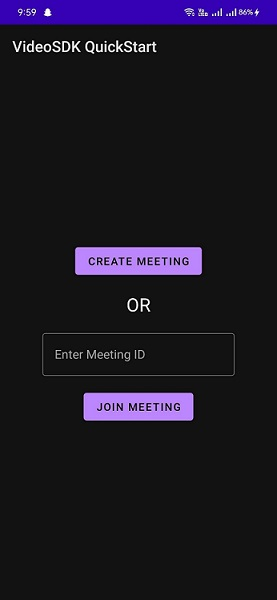
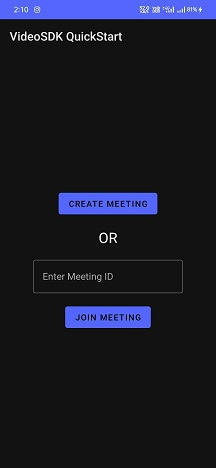
screenshot and style update

diff --git a/sidebarIos.js b/sidebarIos.js
@@ -6,6 +6,7 @@ module.exports = {
       items: [
         "guide/video-and-audio-calling-api-sdk/getting-started",
         "guide/video-and-audio-calling-api-sdk/signup-and-create-api",
+        "guide/video-and-audio-calling-api-sdk/quick-start",
         "guide/video-and-audio-calling-api-sdk/ios-sdk",
         "guide/video-and-audio-calling-api-sdk/server-setup",
       ],

diff --git a/docusaurus.config.js b/docusaurus.config.js
@@ -29,7 +29,8 @@ module.exports = {
       disableSwitch: false,
     },
     prism: {
-      additionalLanguages: ["powershell"],
+      theme: require("prism-react-renderer/themes/dracula"),
+      additionalLanguages: ['java', 'powershell'],
     },
     hideableSidebar: true,
     navbar: {

diff --git a/ios_docs/guide/video-and-audio-calling-api-sdk/quick-start.md b/ios_docs/guide/video-and-audio-calling-api-sdk/quick-start.md
@@ -1,0 +1,112 @@
+---
+title: Quick Start with iOS
+hide_title: false
+hide_table_of_contents: false
+description: Video SDK enables the opportunity to integrate native IOS, Android & Web SDKs to add live video & audio conferencing to your applications.
+sidebar_label: Quick Start with iOS
+pagination_label: Quick Start with iOS
+keywords:
+  - audio calling
+  - video calling
+  - real-time communication
+  - collabration
+image: img/videosdklive-thumbnail.jpg
+sidebar_position: 1
+slug: quick-start
+---
+
+# Quick Start
+
+VideoSDK enables opportunity to integrate video & audio calling to Web, Android, IOS applications. it provides Programmable SDKs and REST APIs to build up scalable video conferencing applications.
+
+This guide will get you running with the VideoSDK video & audio calling in minutes.
+
+## Sample Project
+
+These quick start will help you integrate some of the basic functionalities that VideoSDK provides. You can check out the complete source code for this guide [here](/). Once you are done with the tutorial given below your app should look like this.
+
+## Prerequisites
+
+Before proceeding, ensure that your development environment meets the following requirements:
+
+* iOS development environment
+* A valid VideoSDK account.
+* An active VideoSDK project with temporary token. For details, see [Signup & Create API Key](/android/guide/video-and-audio-calling-api-sdk/signup-and-create-api).
+
+## Project Setup
+
+Follow the steps to create the environment necessary to add video call into your app.
+
+1. Create a new XCode project.
+
+2. Initialize the CocoaPods by following command.
+
+```bash
+$ pod init
+```
+
+3. Install the VideoSDK with CocoaPods.
+
+```bash
+$ pod 'VideoSDKRTC'
+```
+OR 
+```bash
+$ pod 'VideoSDKRTC', :git => 'https://github.com/videosdk-live/videosdk-rtc-ios-sdk.git'
+```
+
+4. Add the permissions for the microphone and camera.
+
+```xml title="info.plist"
+<key>NSCameraUsageDescription</key>
+<string>Allow camera access to start video.</string>
+
+<key>NSMicrophoneUsageDescription</key>
+<string>Allow microphone access to start audio.</string>
+```
+
+5. With this the project setup is done. Let's get started with the implementation of the VideoSDK.
+
+## Implementing Meeting with VideoSDK
+
+### Creating Joining Screen
+
+#### Creating UI
+
+The Joining screen will consist of:
+1. Create Button - This button will create a new meeting for you.
+2. TextField for Meeting ID - This textfield will contain the meeting ID you want to join.
+3. Join Button - This buttom will join the meeting with which the you will be joined.
+
+--- JOinScreen Ui
+
+1. Create a new `APIService.swift` file which will include the API call for creating the meeting.
+
+```js title="APIService.swift"
+class APIService {
+
+    //Replace with the token you generated from VideoSDK Dashboard
+    let AUTH_TOKEN = "YOUR TOKEN HERE";
+
+    class func createMeeting(token: String, completion: @escaping (Result<String, Error>) -> Void) {
+        var url = URL(string: "https://api.videosdk.live/v1/api")!
+        url = url.appendingPathComponent("create-meeting")
+
+        let params = ["token": AUTH_TOKEN]
+
+        var request = URLRequest(url: url)
+        request.httpMethod = "POST"
+        request.httpBody = try? JSONSerialization.data(withJSONObject: params, options: [])
+        request.addValue(AUTH_TOKEN, "Autori")
+
+        URLSession.shared.dataTask(with: request) { data, response, error in
+            if let data = data, let meetingId = data.toJSON()["meetingId"] as? String {
+                completion(.success(meetingId))
+            } else if let err = error {
+                completion(.failure(err))
+            }
+        }
+        .resume()
+    }
+}
+```

diff --git a/ios_docs_versioned_docs/version-1.2.x/guide/video-and-audio-calling-api-sdk/quick-start.md b/ios_docs_versioned_docs/version-1.2.x/guide/video-and-audio-calling-api-sdk/quick-start.md
@@ -1,0 +1,112 @@
+---
+title: Quick Start with iOS
+hide_title: false
+hide_table_of_contents: false
+description: Video SDK enables the opportunity to integrate native IOS, Android & Web SDKs to add live video & audio conferencing to your applications.
+sidebar_label: Quick Start with iOS
+pagination_label: Quick Start with iOS
+keywords:
+  - audio calling
+  - video calling
+  - real-time communication
+  - collabration
+image: img/videosdklive-thumbnail.jpg
+sidebar_position: 1
+slug: quick-start
+---
+
+# Quick Start
+
+VideoSDK enables opportunity to integrate video & audio calling to Web, Android, IOS applications. it provides Programmable SDKs and REST APIs to build up scalable video conferencing applications.
+
+This guide will get you running with the VideoSDK video & audio calling in minutes.
+
+## Sample Project
+
+These quick start will help you integrate some of the basic functionalities that VideoSDK provides. You can check out the complete source code for this guide [here](/). Once you are done with the tutorial given below your app should look like this.
+
+## Prerequisites
+
+Before proceeding, ensure that your development environment meets the following requirements:
+
+* iOS development environment
+* A valid VideoSDK account.
+* An active VideoSDK project with temporary token. For details, see [Signup & Create API Key](/android/guide/video-and-audio-calling-api-sdk/signup-and-create-api).
+
+## Project Setup
+
+Follow the steps to create the environment necessary to add video call into your app.
+
+1. Create a new XCode project.
+
+2. Initialize the CocoaPods by following command.
+
+```bash
+$ pod init
+```
+
+3. Install the VideoSDK with CocoaPods.
+
+```bash
+$ pod 'VideoSDKRTC'
+```
+OR 
+```bash
+$ pod 'VideoSDKRTC', :git => 'https://github.com/videosdk-live/videosdk-rtc-ios-sdk.git'
+```
+
+4. Add the permissions for the microphone and camera.
+
+```xml title="info.plist"
+<key>NSCameraUsageDescription</key>
+<string>Allow camera access to start video.</string>
+
+<key>NSMicrophoneUsageDescription</key>
+<string>Allow microphone access to start audio.</string>
+```
+
+5. With this the project setup is done. Let's get started with the implementation of the VideoSDK.
+
+## Implementing Meeting with VideoSDK
+
+### Creating Joining Screen
+
+#### Creating UI
+
+The Joining screen will consist of:
+1. Create Button - This button will create a new meeting for you.
+2. TextField for Meeting ID - This textfield will contain the meeting ID you want to join.
+3. Join Button - This buttom will join the meeting with which the you will be joined.
+
+--- JOinScreen Ui
+
+1. Create a new `APIService.swift` file which will include the API call for creating the meeting.
+
+```js title="APIService.swift"
+class APIService {
+
+    //Replace with the token you generated from VideoSDK Dashboard
+    let AUTH_TOKEN = "YOUR TOKEN HERE";
+
+    class func createMeeting(token: String, completion: @escaping (Result<String, Error>) -> Void) {
+        var url = URL(string: "https://api.videosdk.live/v1/api")!
+        url = url.appendingPathComponent("create-meeting")
+
+        let params = ["token": AUTH_TOKEN]
+
+        var request = URLRequest(url: url)
+        request.httpMethod = "POST"
+        request.httpBody = try? JSONSerialization.data(withJSONObject: params, options: [])
+        request.addValue(AUTH_TOKEN, "Autori")
+
+        URLSession.shared.dataTask(with: request) { data, response, error in
+            if let data = data, let meetingId = data.toJSON()["meetingId"] as? String {
+                completion(.success(meetingId))
+            } else if let err = error {
+                completion(.failure(err))
+            }
+        }
+        .resume()
+    }
+}
+```

diff --git a/flutter_docs/guide/video-and-audio-calling-api-sdk/quick-start.md b/flutter_docs/guide/video-and-audio-calling-api-sdk/quick-start.md
@@ -25,6 +25,8 @@ This guide will get you running with the VideoSDK video & audio calling in minut
 
 These quick start will help you integrate some of the basic functionalities that VideoSDK provides. You can check out the complete source code for this guide [here](/). Once you are done with the tutorial given below your app should look like this.
 
+![VideoSDK Flutter Quick Start Join Screen](/img/quick-start/flutter-join-screen.jpg) ![VideoSDK Flutter Quick Start Meeting Screen](/img/quick-start/flutter-meeting-screen.jpg) 
+
 ## Prerequisites
 
 Before proceeding, ensure that your development environment meets the following requirements:

diff --git a/flutter_docs_versioned_docs/version-0.0.x/guide/video-and-audio-calling-api-sdk/quick-start.md b/flutter_docs_versioned_docs/version-0.0.x/guide/video-and-audio-calling-api-sdk/quick-start.md
@@ -25,6 +25,8 @@ This guide will get you running with the VideoSDK video & audio calling in minut
 
 These quick start will help you integrate some of the basic functionalities that VideoSDK provides. You can check out the complete source code for this guide [here](/). Once you are done with the tutorial given below your app should look like this.
 
+![VideoSDK Flutter Quick Start Join Screen](/img/quick-start/flutter-join-screen.jpg) ![VideoSDK Flutter Quick Start Meeting Screen](/img/quick-start/flutter-meeting-screen.jpg) 
+
 ## Prerequisites
 
 Before proceeding, ensure that your development environment meets the following requirements:

diff --git a/android_docs_versioned_docs/version-0.0.x/guide/video-and-audio-calling-api-sdk/quick-start.md b/android_docs_versioned_docs/version-0.0.x/guide/video-and-audio-calling-api-sdk/quick-start.md
@@ -124,7 +124,7 @@ public class MainApplication extends Application {
 The Joining screen will consist of:
 1. Create Button - This button will create a new meeting for you.
 2. TextField for Meeting ID - This textfield will contain the meeting ID you want to join.
-2. Join Button - This buttom will join the meeting with which the you will be joined.
+3. Join Button - This buttom will join the meeting with which the you will be joined.
 
 In `/app/res/layout/activity_main.xml`, replace the content with the following:
 
